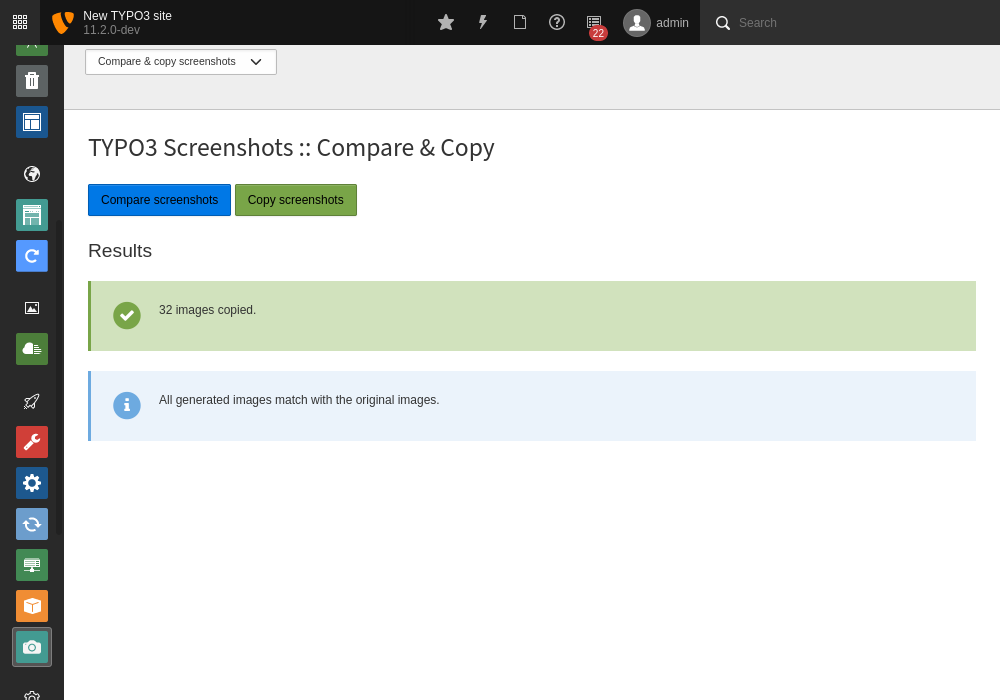
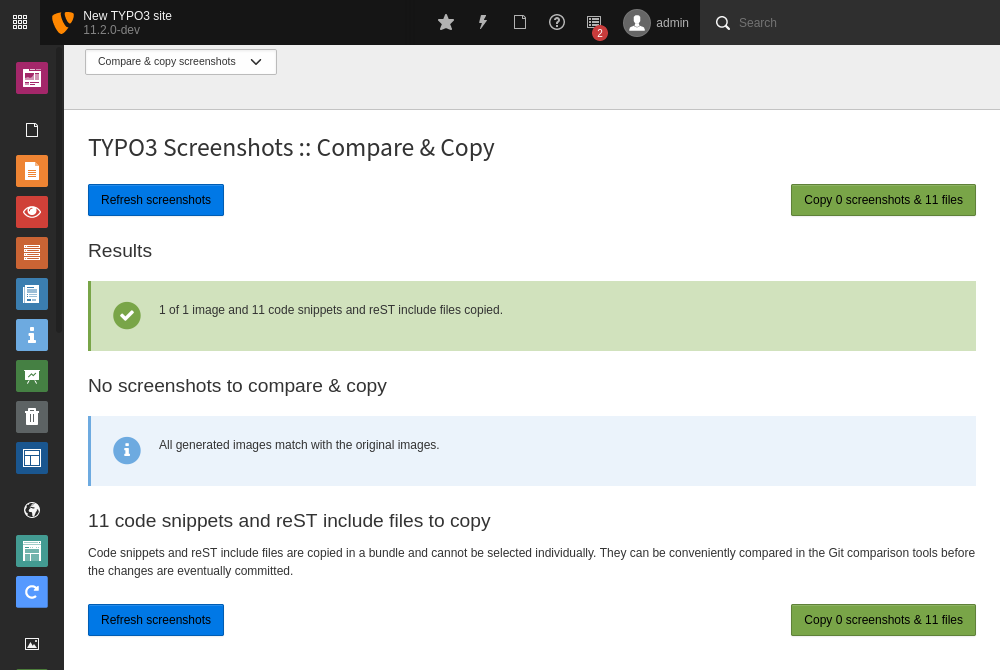
[DOCS] Add documentation for selecting screenshots individually

diff --git a/README.rst b/README.rst
@@ -391,6 +391,10 @@ On this page you compare the newly created screenshots of the runner with the or
 current state on the left, the original state on the right and the difference map in the middle. At the top it shows
 the difference as a number.
 
+Each screenshot is selected for copying by default, but can be deselected individually and in aggregation. All text
+files such as the screenshot ReST include files or the code snippets cannot be deselected but are copied in bundles:
+They must be handled externally by the Git comparison tools.
+
 .. image:: docs/screenshots_manager_compare.png
 
 When you have confirmed the changes, pressing the "Copy screenshots" button will copy the screenshots to the original
